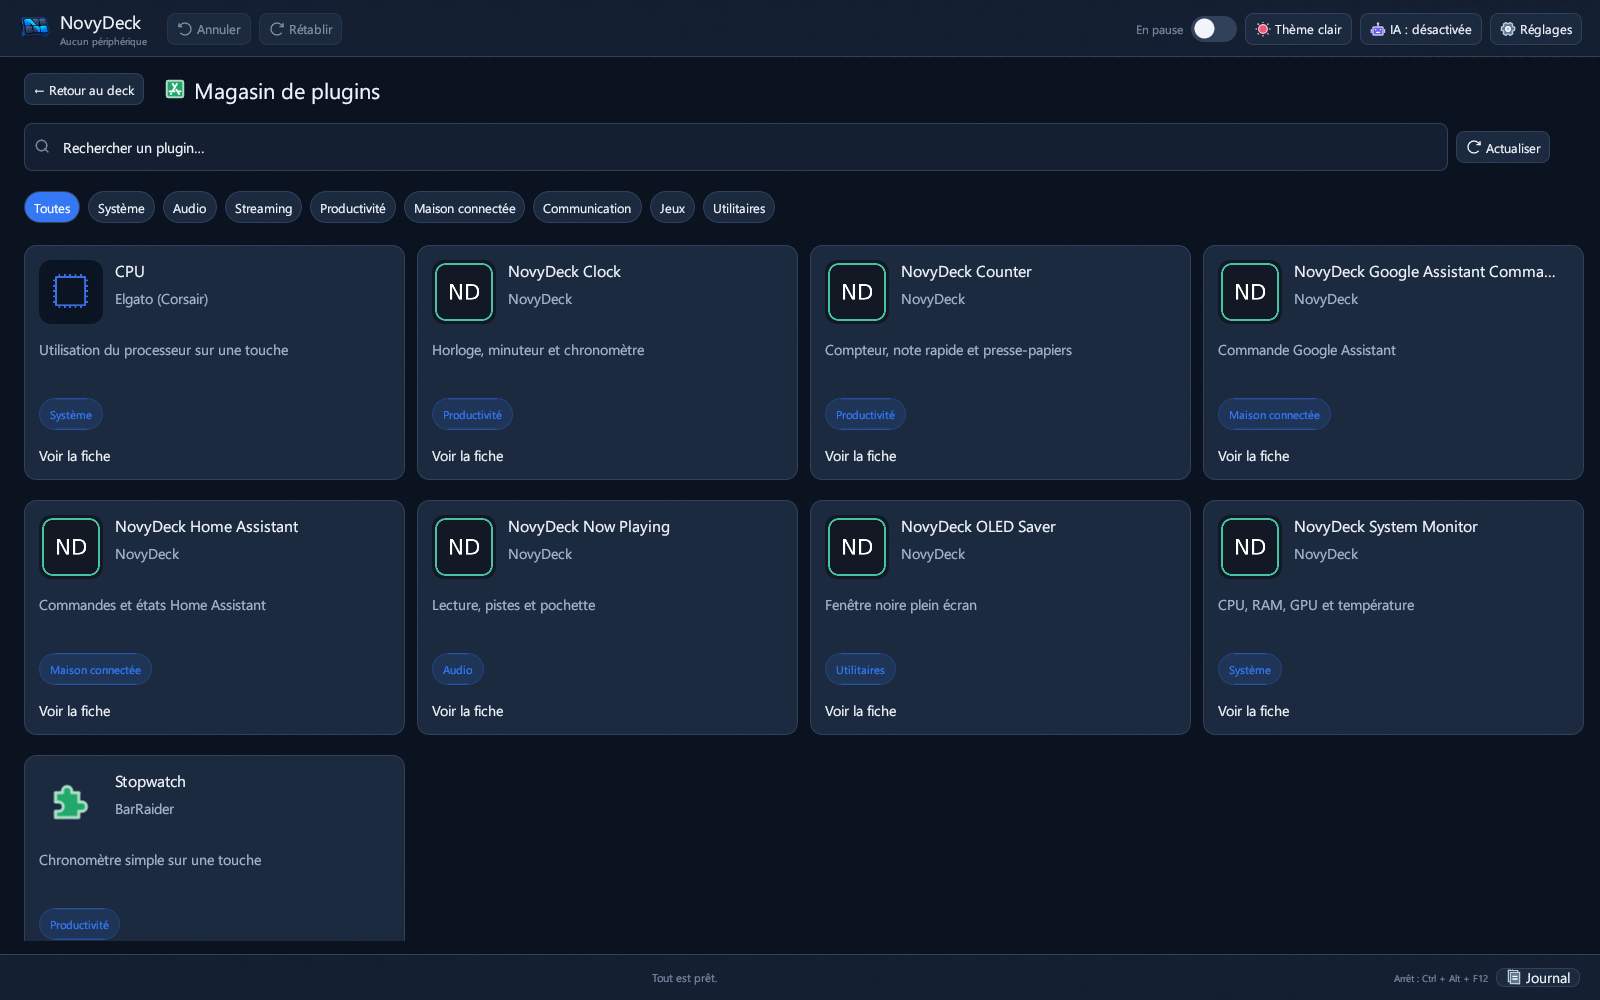
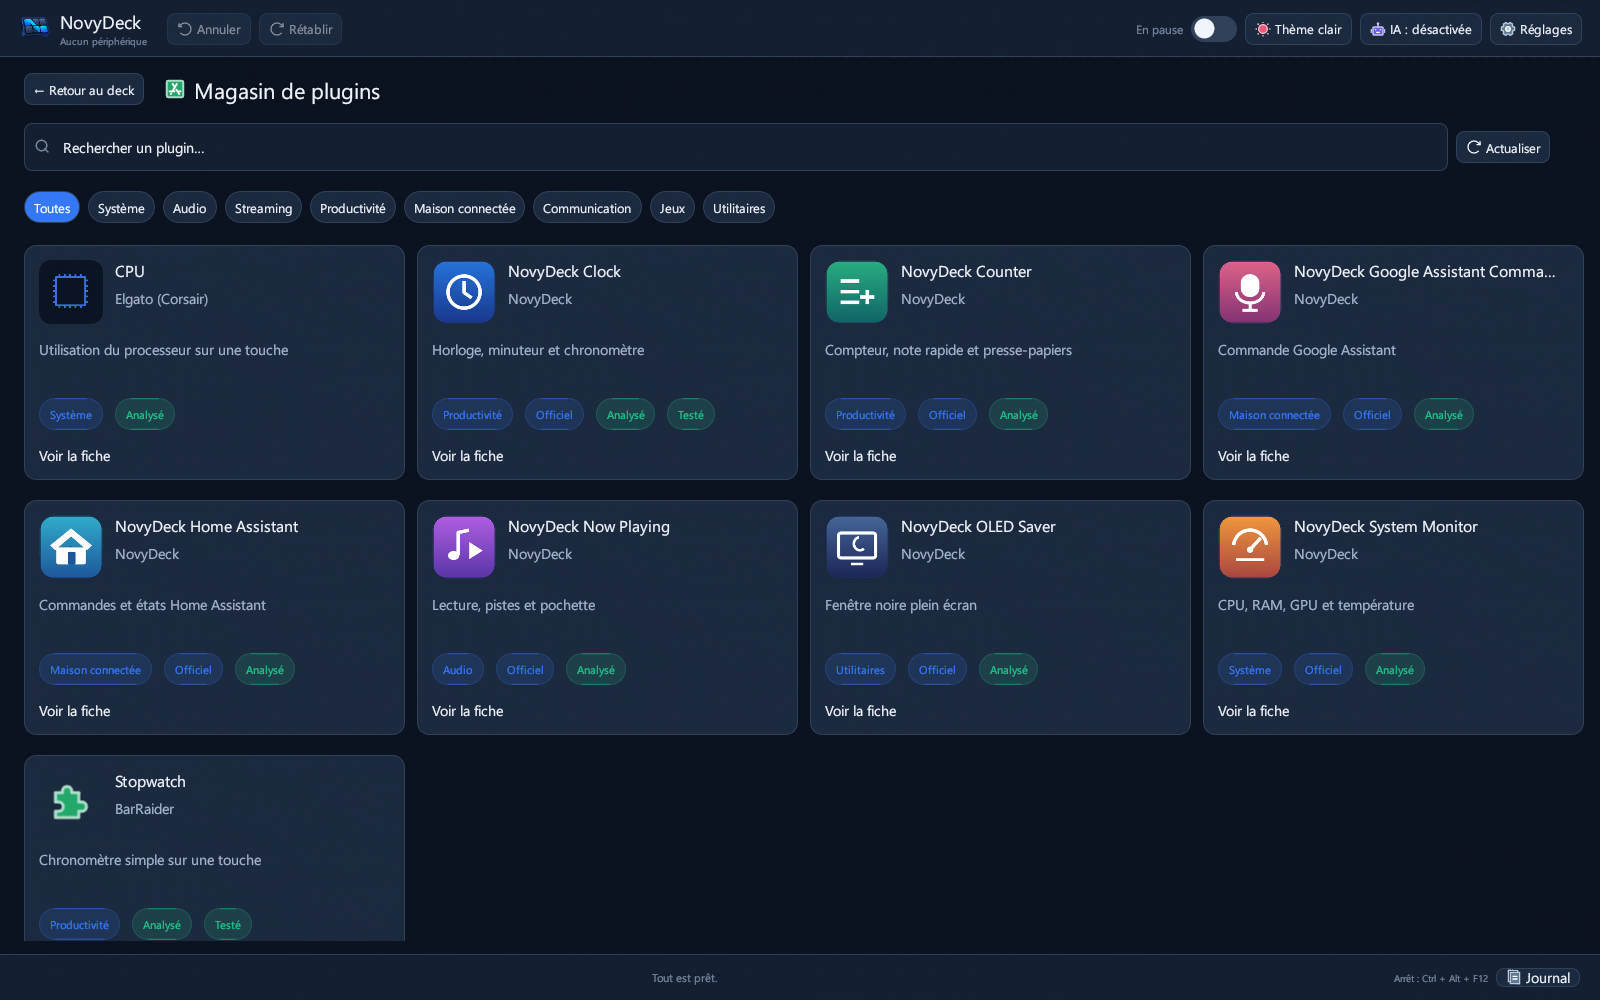
wip: vm test

diff --git a/src/ui_plugin_market.rs b/src/ui_plugin_market.rs
@@ -177,8 +177,13 @@ impl App {
       ui.add_space(18.0);
       if !entry.actions.is_empty(){theme::section_title(ui,tr("Actions"));ui.add_space(8.0);for action in &entry.actions{ui.label(trf("• {action}",&[("action",&localized(action.name_fr.as_deref(),&action.name))]));}ui.add_space(18.0);}
       egui::Frame::new().fill(p.warning.gamma_multiply(0.12)).stroke(egui::Stroke::new(1.0,p.warning.gamma_multiply(0.65))).corner_radius(theme::RADIUS_MD).inner_margin(egui::Margin::same(16)).show(ui,|ui|{
-       ui.label(RichText::new(tr("Communauté — non vérifié")).color(p.warning).strong());
-       ui.add(egui::Label::new(tr("Ce plugin exécute du code tiers avec vos droits utilisateur.")).wrap());
+       if badges.official{
+        ui.label(RichText::new(tr("Plugin officiel NovyDeck")).color(p.accent).strong());
+        ui.add(egui::Label::new(tr("Ce plugin exécute du code avec vos droits utilisateur.")).wrap());
+       }else{
+        ui.label(RichText::new(tr("Communauté — non vérifié")).color(p.warning).strong());
+        ui.add(egui::Label::new(tr("Ce plugin exécute du code tiers avec vos droits utilisateur.")).wrap());
+       }
       });
       ui.add_space(12.0);
       if ui.link(tr("Page du projet")).clicked(){ctx.open_url(egui::OpenUrl::new_tab(&entry.homepage));}

diff --git a/src/community_plugins.rs b/src/community_plugins.rs
@@ -7,7 +7,7 @@ use sha2::{Digest, Sha256};
 
 pub const REGISTRY_URL: &str = "https://raw.githubusercontent.com/HatiFlash/novydeck-plugins/main/registry.json";
 pub const CONTRIBUTE_URL: &str = "https://github.com/HatiFlash/novydeck-plugins/blob/main/CONTRIBUTING.md";
-pub const SECURITY_URL: &str = "https://github.com/HatiFlash/novydeck-plugins#use-the-community-library-in-novydeck";
+pub const SECURITY_URL: &str = "https://github.com/HatiFlash/novydeck-plugins#security-badges";
 const SCAN_URL: &str = "https://raw.githubusercontent.com/HatiFlash/novydeck-plugins/main/security/scan-results.json";
 const ARCHIVE_LIMIT: usize = 50 * 1024 * 1024;
 const REGISTRY_LIMIT: usize = 1024 * 1024;

diff --git a/docs/RELEASE-0.9.3.md b/docs/RELEASE-0.9.3.md
@@ -1,21 +1,21 @@
-# NovyDeck 0.9.3
+# NovyDeck 0.9.3 — security badges, cleaner plugins, quieter updates
 
 ## English
 
-- The in-app updater now launches its wait using a hidden console inherited by `ping`; the installer remains silent and relaunches NovyDeck. When upgrading **from 0.9.2 to 0.9.3**, the 0.9.2 launcher is still in use and its visible console may appear **one last time**.
-- Plugin settings use a smaller, resizable, named window associated with the NovyDeck window when its owner is available. The plugin receives the current interface language instead of always receiving French.
-- The settings window is still a separate isolated WebView2 process, for plugin isolation. Reopening settings may create another window; the existing limit of four inspector windows remains. Plugin-supplied HTML controls its own page appearance, so a completely dark page cannot be guaranteed.
-- No profiles, macros, or plugin actions are changed by this presentation update. Toggle key faces now keep their on/off appearance across page changes during this app session only; on restart, they begin off. Condition-driven faces continue to follow the live condition.
-- Step summaries and the default Ignore choice are translated in the English interface. Installed plugin keys show the plugin and action's readable names; the tooltip retains their technical identifiers.
-- Secondary in-app windows are centered, fixed in place, non-collapsible and size-limited. Long settings content can scroll. Plugin-supplied WebView2 windows remain independently resizable and are not affected.
-- The plugin store distinguishes Official, Scanned (only a clean, passed scan of the exact archive), and Tested by NovyDeck (exact version). Review or failed scans show a warning; installation remains possible with a highlighted confirmation. Automated analysis reduces risks without eliminating them.
+- **Security badges in the plugin store.** Every plugin in the catalogue is now scanned automatically on GitHub (Microsoft Defender plus a static check of the archive) when it is added or updated, and again every week. Cards and plugin pages show **Official** (published by NovyDeck), **Scanned** (the exact archive passed the scan) and **Tested by NovyDeck** (that exact version was tried by hand). A plugin whose scan needs review shows a warning, and the install confirmation highlights it. A scan reduces risk; it cannot rule it out completely.
+- **Official plugins 1.0.2.** Each of the seven NovyDeck plugins has its own logo, and their settings pages were redesigned: one language at a time (French or English, following NovyDeck), grouped cards, clear help text and number checks. The System Monitor reads the CPU temperature when Windows exposes it and shows "N/A" instead of a misleading value when a sensor is unavailable. Update them from the plugin store.
+- **Quieter updates.** Updating from inside NovyDeck no longer opens a black console window. Note: the update from 0.9.2 to 0.9.3 is still started by 0.9.2, so the console may appear one last time.
+- **Plugin settings window.** It is smaller, titled with the plugin and action names, attached to the NovyDeck window, and the plugin receives your interface language.
+- **Polish.** Secondary windows (Settings, About, AI assistant…) stay centered and can no longer be dragged around. ON/OFF keys keep their state when you switch pages during the session (they start OFF again after a restart). Remaining French texts in the English interface were translated, and plugin keys show readable plugin and action names.
+
+Your profiles, macros, media and plugins are kept.
 
 ## Français
 
-- La mise à jour depuis l'application lance maintenant son attente avec une console masquée héritée par `ping` ; l'installateur reste silencieux et relance NovyDeck. Lors du passage **de 0.9.2 à 0.9.3**, c'est encore le code de 0.9.2 qui lance la mise à jour : sa console peut apparaître **une dernière fois**.
-- Les réglages du plugin utilisent une fenêtre plus compacte, redimensionnable et nommée, rattachée à celle de NovyDeck lorsque son propriétaire est disponible. Le plugin reçoit la langue réelle de l'interface au lieu de recevoir toujours le français.
-- La fenêtre reste un processus WebView2 isolé pour préserver l'isolation du plugin. La rouvrir peut créer une autre fenêtre ; la limite existante de quatre inspecteurs reste en vigueur. Le contenu HTML du plugin contrôle son propre aspect : un fond entièrement sombre ne peut pas être garanti.
-- Cette mise à jour de présentation ne modifie ni les profils, ni les macros, ni les actions des plugins. L'apparence ON/OFF des touches à bascule est conservée entre les pages pendant la session seulement ; au redémarrage, elle repart sur OFF. Les faces pilotées par une condition continuent à suivre la condition en direct.
-- Les résumés des étapes et le choix « Ignorer » par défaut sont traduits en anglais. Les touches de plugins installés affichent les noms lisibles du plugin et de l'action ; l'infobulle conserve les identifiants techniques.
-- Les fenêtres secondaires de l'application sont centrées, fixes, non repliables et de taille limitée. Les longs réglages peuvent défiler. Les fenêtres WebView2 fournies par les plugins restent redimensionnables indépendamment.
-- Le magasin distingue les badges « Officiel », « Analysé » (analyse réussie et Defender propre pour l'archive exacte) et « Testé par NovyDeck » (version exacte). Une analyse à examiner ou échouée affiche un avertissement ; l'installation reste possible après confirmation avec un avertissement coloré. Une analyse réduit les risques sans les supprimer.
+- **Badges de sécurité dans le magasin de plugins.** Chaque plugin du catalogue est désormais analysé automatiquement sur GitHub (Microsoft Defender et contrôle de l'archive) à son ajout, à chaque mise à jour, puis chaque semaine. Les cartes et les fiches affichent **Officiel** (publié par NovyDeck), **Analysé** (l'archive exacte a passé l'analyse) et **Testé par NovyDeck** (cette version précise a été essayée à la main). Un plugin dont l'analyse est à examiner affiche un avertissement, repris dans la confirmation d'installation. Une analyse réduit les risques sans les supprimer.
+- **Plugins officiels 1.0.2.** Les sept plugins NovyDeck ont chacun leur logo, et leurs pages de réglages ont été refaites : une seule langue à la fois (français ou anglais, comme NovyDeck), cartes groupées, aides claires et contrôle des nombres. Le moniteur système lit la température du processeur quand Windows la fournit et affiche « N/D » plutôt qu'une valeur trompeuse quand un capteur manque. Mettez-les à jour depuis le magasin.
+- **Mises à jour plus discrètes.** La mise à jour depuis NovyDeck n'ouvre plus de fenêtre de console noire. Attention : le passage de 0.9.2 à 0.9.3 est encore lancé par la 0.9.2, la console peut donc apparaître une dernière fois.
+- **Fenêtre de réglages des plugins.** Plus compacte, titrée avec le nom du plugin et de l'action, rattachée à la fenêtre NovyDeck ; le plugin reçoit la langue de l'interface.
+- **Finitions.** Les fenêtres secondaires (Réglages, À propos, Assistant IA…) restent centrées et ne se déplacent plus. Les touches ON/OFF gardent leur état quand on change de page pendant la session (elles repartent sur OFF au redémarrage). Les textes encore en français dans l'interface anglaise sont traduits, et les touches de plugins affichent des noms lisibles.
+
+Vos profils, macros, médias et plugins sont conservés.

diff --git a/README.fr.md b/README.fr.md
@@ -23,7 +23,28 @@ Un film de présentation de 40 s en 1920 × 1080 à 60 i/s, avec son, réalisé 
 
 ## Nouveautés 0.9.3
 
-La mise à jour depuis l'application attend désormais sans console ping visible (à partir de cette version). Les réglages des plugins s'ouvrent dans une fenêtre plus compacte, nommée et rattachée à NovyDeck ; les plugins reçoivent la langue choisie. Voir les [notes de version](docs/RELEASE-0.9.3.md). Le passage de 0.9.2 à 0.9.3 peut encore afficher l'ancienne console une fois.
+### Badges de sécurité dans le magasin de plugins
+
+Ouvrez **Bibliothèque → Plugins → Magasin de plugins**. Chaque plugin affiche désormais jusqu'à trois badges : **Officiel** (publié par NovyDeck), **Analysé** (l'archive exacte a passé le contrôle automatique) et **Testé par NovyDeck** (cette version précise a été essayée à la main). Le contrôle tourne sur GitHub, sans intervention manuelle, à chaque modification du catalogue et chaque semaine : Microsoft Defender et inspection de l'archive (exécutables et signatures, scripts à risque, manifest, licence et source). Un plugin dont l'analyse est à examiner affiche un avertissement, repris dans la confirmation d'installation. La section **Sécurité** de chaque fiche explique les badges. Une analyse réduit les risques sans les supprimer.
+
+| Magasin avec badges | Section Sécurité d'une fiche |
+|:--:|:--:|
+| ![Magasin de plugins avec badges Officiel, Analysé et Testé](docs/images/plugin-store-fr.png) | ![Section Sécurité qui explique les badges](docs/images/store-security-fr.png) |
+
+### Plugins officiels 1.0.2 : logos et réglages repensés
+
+Les sept plugins NovyDeck ont chacun leur logo, et leurs pages de réglages ont été refaites : une seule langue à la fois (celle de NovyDeck), cartes groupées, aides claires et contrôle des nombres. La fenêtre de réglages est plus compacte, titrée avec le plugin et l'action, et rattachée à NovyDeck. Le moniteur système lit la température du processeur quand Windows la fournit et affiche « N/D » quand un capteur manque. Mettez-les à jour depuis le magasin.
+
+![Nouveaux logos et pages de réglages des plugins officiels](docs/images/official-plugins-fr.png)
+
+### Mises à jour plus discrètes et finitions
+
+- La mise à jour depuis NovyDeck n'ouvre plus de fenêtre de console noire (le passage 0.9.2 → 0.9.3 est encore lancé par la 0.9.2 et peut l'afficher une dernière fois).
+- Les fenêtres secondaires (Réglages, À propos, Assistant IA…) restent centrées et ne se déplacent plus.
+- Les touches ON/OFF gardent leur état quand on change de page pendant la session.
+- Les textes encore en français dans l'interface anglaise sont traduits ; les touches de plugins affichent des noms lisibles.
+
+Voir les [notes de version](docs/RELEASE-0.9.3.md).
 
 ## Nouveautés 0.9.2
 
@@ -71,7 +92,7 @@ Quand NovyDeck se lance avec Windows, il peut maintenant rester réduit près de
 - **Assistant local :** une phrase en français ou en anglais devient des blocs présentés en aperçu. Rien n'est inséré sans validation ; l'IA locale facultative est désactivée par défaut.
 - **Plugins Stream Deck / OpenAction :** import des archives `.streamDeckPlugin` et `.sdPlugin`, réglages HTML isolés ([compatibilité](docs/PLUGINS-COMPATIBILITE.md)).
 - **Serveur MCP :** utilisation avec Claude, Codex ou Cursor et validation humaine de chaque modification proposée ([guide MCP](docs/MCP.md)).
-- **Bibliothèque communautaire de plugins :** parcourez et installez les plugins partagés par la communauté depuis [novydeck-plugins](https://github.com/HatiFlash/novydeck-plugins). NovyDeck ne se connecte qu'avec votre accord, demande confirmation et vérifie l'empreinte SHA-256 de chaque téléchargement ; les plugins communautaires sont signalés comme non vérifiés.
+- **Bibliothèque communautaire de plugins :** parcourez et installez les plugins partagés par la communauté depuis [novydeck-plugins](https://github.com/HatiFlash/novydeck-plugins). NovyDeck ne se connecte qu'avec votre accord, demande confirmation et vérifie l'empreinte SHA-256 de chaque téléchargement ; chaque plugin affiche ses badges de sécurité (Officiel, Analysé, Testé par NovyDeck).
 - **Rapport matériel :** vous testez une autre marque de deck ? **Signaler un problème avec mon deck** prépare un rapport anonymisé (avec aperçu) et ouvre une issue GitHub préremplie ; il suffit d'indiquer le modèle du deck et ce qui ne va pas.
 
 ## Compatibilité
@@ -155,7 +176,7 @@ Ouvrez **Bibliothèque → Plugins**. Le bouton **Magasin de plugins** apparaît
 Fonctionnement de la bibliothèque communautaire :
 
 - NovyDeck reste hors ligne tant que vous n'avez pas cliqué sur **Se connecter au magasin** ; il télécharge alors uniquement le catalogue (`registry.json`) depuis GitHub.
-- Chaque carte indique le nom, la version, l'auteur, la licence, les decks testés et la version minimale de NovyDeck. Les entrées portent la mention **Communauté — non vérifié**.
+- Chaque carte indique le nom, la version, l'auteur, la licence, les decks testés et la version minimale de NovyDeck. Des badges indiquent si un plugin est **Officiel**, **Analysé** automatiquement et **Testé par NovyDeck** ; les autres plugins communautaires portent la mention **Communauté — non vérifié**.
 - **Installer…** ouvre une confirmation avec l'adresse de téléchargement et l'empreinte SHA-256 attendue. NovyDeck télécharge l'archive, vérifie son empreinte et l'importe seulement ensuite. Une empreinte identique prouve que le fichier est bien celui référencé, pas que le code tiers est sûr : n'installez que des plugins de confiance.
 
 ```mermaid
@@ -199,6 +220,7 @@ NovyDeck fonctionne hors ligne. L'IA locale reste sur votre PC ; elle est facult
 
 ## Dernière version
 
+- **0.9.3 :** badges de sécurité dans le magasin (analyse automatique sur GitHub) ; plugins officiels 1.0.2 avec logos et réglages repensés ; plus de console pendant la mise à jour ; fenêtres secondaires fixes ; état ON/OFF conservé entre les pages.
 - **0.9.2 :** deux images Activé/Désactivé par touche alternent à l’appui court physique ; textes anglais et panneau Windows fixe ; plugins officiels 1.0.1 sans cadres noirs, aperçus CPU/RAM mesurés.
 - **0.9.1 :** le magasin de plugins devient une page fixe de l'application (plus de fenêtre flottante), avec bouton retour et Échap ; les blocs de plugins de l'Atelier affichent les noms lisibles du plugin et de l'action ; le README présente les nouveautés 0.9.0 avec captures.
 - **0.9.0 :** fenêtre **Magasin de plugins** façon Play Store (recherche, catégories, fiche avec captures, installation en un clic avec contrôle SHA-256) ; sept plugins NovyDeck officiels et des plugins open source testés ; **actions de plugins dans l'Atelier de blocs**, combinables entre plugins et comprises par l'assistant local ; option **démarrer réduit** quand NovyDeck se lance avec Windows.

diff --git a/README.md b/README.md
@@ -23,7 +23,28 @@ A 40-second presentation film in 1920 × 1080 at 60 fps with sound, made with Re
 
 ## What's new in 0.9.3
 
-The in-app updater now starts its wait without opening a visible ping console (from this version onward). Plugin settings use a smaller, named window attached to NovyDeck, and plugins receive the selected interface language. See [release notes](docs/RELEASE-0.9.3.md). The 0.9.2 → 0.9.3 update can still show the old console once.
+### Security badges in the plugin store
+
+Open **Library → Plugins → Plugin store**. Each plugin now shows up to three badges: **Official** (published by NovyDeck), **Scanned** (the exact archive passed the automatic check) and **Tested by NovyDeck** (that exact version was tried by hand). The check runs on GitHub, with no manual step, every time the catalogue changes and every week: Microsoft Defender plus a static inspection of the archive (executables and signatures, risky scripts, manifest, licence and source). A plugin whose scan needs review shows a warning, also highlighted in the install confirmation. The **Security** section of each plugin page explains the badges. A scan reduces risk; it cannot rule it out completely.
+
+| Store with badges | Security section of a plugin page |
+|:--:|:--:|
+| ![Plugin store with Official, Scanned and Tested badges](docs/images/plugin-store.png) | ![Security section explaining the badges](docs/images/store-security.png) |
+
+### Official plugins 1.0.2: logos and cleaner settings
+
+The seven NovyDeck plugins each have their own logo, and their settings pages were redesigned: one language at a time (following NovyDeck), grouped cards, clear help and number checks. The settings window is smaller, titled with the plugin and action, and attached to NovyDeck. The System Monitor reads the CPU temperature when Windows exposes it and shows "N/A" when a sensor is unavailable. Update them from the plugin store.
+
+![New logos and settings pages of the official plugins](docs/images/official-plugins.png)
+
+### Quieter updates and polish
+
+- Updating from inside NovyDeck no longer opens a black console window (the 0.9.2 → 0.9.3 update is still started by 0.9.2 and may show it one last time).
+- Secondary windows (Settings, About, AI assistant…) stay centered and can no longer be dragged around.
+- ON/OFF keys keep their state when you switch pages during the session.
+- Remaining French texts in the English interface are translated; plugin keys show readable plugin and action names.
+
+See the [release notes](docs/RELEASE-0.9.3.md).
 
 ## What's new in 0.9.2
 
@@ -71,7 +92,7 @@ When NovyDeck starts with Windows, it can now stay minimized near the clock with
 - **Local assistant:** turn a sentence in English or French into previewed blocks. Nothing is inserted without confirmation; optional local AI is off by default.
 - **Stream Deck / OpenAction plugins:** import `.streamDeckPlugin` and `.sdPlugin` packages with isolated HTML settings ([compatibility, French](docs/PLUGINS-COMPATIBILITE.md)).
 - **MCP server:** work with Claude, Codex or Cursor while approving every proposed change ([MCP guide, French](docs/MCP.md)).
-- **Community plugin library:** browse and install plugins shared by the community from [novydeck-plugins](https://github.com/HatiFlash/novydeck-plugins). NovyDeck only connects after you agree, asks for confirmation and verifies each download's SHA-256; community plugins are marked as unverified.
+- **Community plugin library:** browse and install plugins shared by the community from [novydeck-plugins](https://github.com/HatiFlash/novydeck-plugins). NovyDeck only connects after you agree, asks for confirmation and verifies each download's SHA-256; each plugin shows its security badges (Official, Scanned, Tested by NovyDeck).
 - **Hardware report:** testing another deck brand? **Signaler un problème avec mon deck** (“Report a problem with my deck”) prepares an anonymized report (preview first) and opens a pre-filled GitHub issue; just add your deck model and what goes wrong.
 
 ## Compatibility
@@ -155,7 +176,7 @@ Open **Library → Plugins** (**Bibliothèque → Plugins** in the French interf
 How the community library works:
 
 - NovyDeck stays offline until you click **Connect to the store**; it then downloads only the catalog (`registry.json`) from GitHub.
-- Each card shows the name, version, author, license, tested decks and minimum NovyDeck version. Entries are labelled **Community — unverified**.
+- Each card shows the name, version, author, license, tested decks and minimum NovyDeck version. Badges show whether a plugin is **Official**, **Scanned** automatically and **Tested by NovyDeck**; other community plugins are labelled **Community — unverified**.
 - **Install…** opens a confirmation with the download address and the expected SHA-256. NovyDeck downloads the archive, checks its fingerprint and only then imports it. A matching fingerprint proves the file is the one listed, not that third-party code is safe: install only plugins you trust.
 
 ```mermaid
@@ -199,6 +220,7 @@ NovyDeck works offline. Local AI stays on your PC and is optional and disabled b
 
 ## Latest release
 
+- **0.9.3:** security badges in the plugin store (automatic GitHub scan); official plugins 1.0.2 with logos and cleaner settings; no console during in-app updates; fixed secondary windows; ON/OFF state kept across pages.
 - **0.9.2:** keys can alternate two user-selected ON/OFF images on short physical presses; English text and a fixed Windows and shortcuts dialog; official plugins 1.0.1 improve key text and CPU/RAM previews.
 - **0.9.1:** the plugin store is now a fixed page of the app (no floating window), with a back button and Esc; plugin blocks in the block editor show readable plugin and action names; README presents the 0.9.0 features with screenshots.
 - **0.9.0:** Play Store-style **plugin store** window (search, categories, detail page with screenshots, one-click install with SHA-256 check); seven official NovyDeck plugins plus tested open-source plugins; **plugin actions in the block editor**, combinable across plugins, understood by the local assistant; **start minimized** option when NovyDeck starts with Windows.
